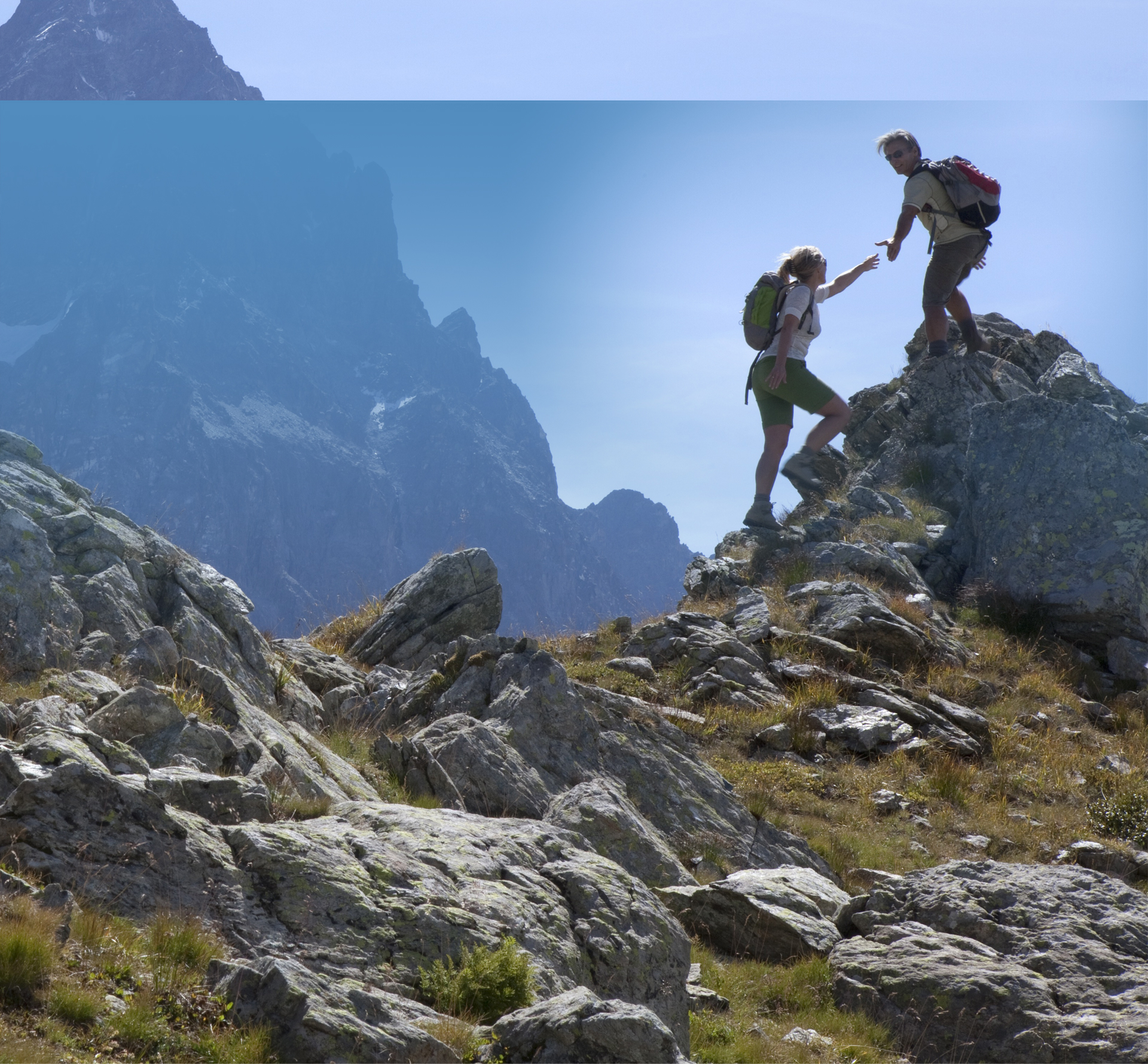
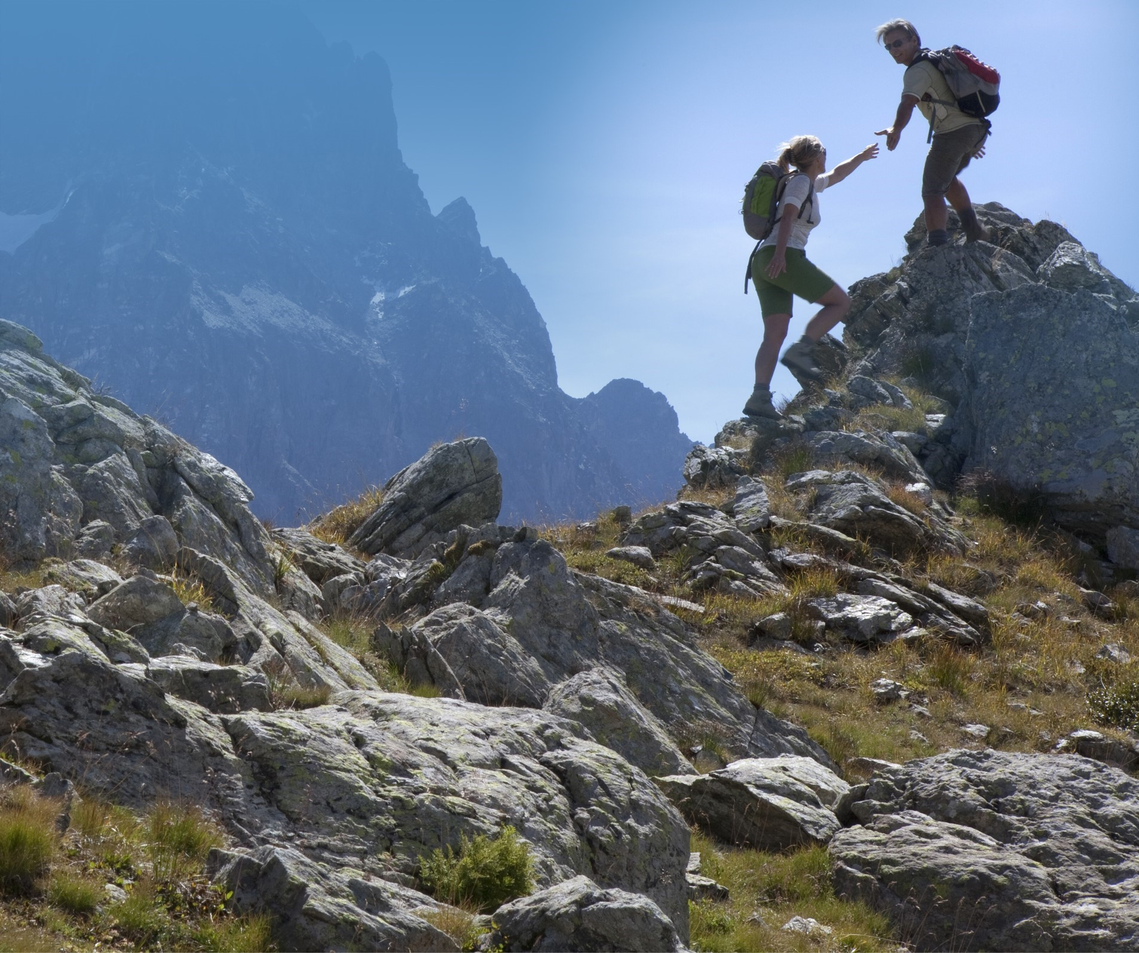
edit landing

diff --git a/css/style.css b/css/style.css
@@ -1,1 +1,1 @@
-html,body{padding:0;margin:0;box-sizing:border-box;scroll-behavior:smooth;font-family:'Poppins' , sans-serif;background:#ebebeb}ul{list-style:none;margin:0;padding:0}img{width:100%}li{margin:0;padding:0}a{text-decoration:none}a:hover{text-decoration:none}.margin{width:80%;margin:0 auto}.hamburger{position:fixed;z-index:999;flex-direction:column;justify-content:center;align-items:center;width:90px;height:90px;cursor:pointer;transition:all .5s ease-in-out;top:2em;right:0em}.hamburger:focus,.hamburger:active{outline:none !important;-webkit-tap-highlight-color:transparent;-webkit-touch-callout:none;-webkit-user-select:none;-khtml-user-select:none;-moz-user-select:none;-ms-user-select:none}.hamburger .lines{width:30px;height:3px;background:#009bfa;transition:all .5s ease-in-out;border-radius:5px}.hamburger .lines:nth-child(2){margin:.3em 0}.hamburger .lines:nth-child(2).open{transform:translateX(-50px);background:transparent}.hamburger.open .lines:nth-child(2){background:transparent}.hamburger.open .lines:nth-child(1){transform:rotate(45deg) translate(0px, 11px);background:red}.hamburger.open .lines:nth-child(3){transform:rotate(-45deg) translate(0px, -11px);background:red}.show-menu{transform:translateY(0%) !important;transition:all 1s ease-in-out;opacity:1 !important}nav{position:relative;width:100%}.container-nav{position:relative;top:0;left:0;text-align:center;width:100%;padding:.5em 0;background:#ebebeb}.container-nav .margin{display:flex;flex-direction:column;width:100%;position:relative}.container-nav .margin .logo{display:flex;flex-direction:row;justify-content:center}.container-nav .margin .logo img{width:20%}.container-nav .margin .name{position:absolute;left:20%;top:30%;transform:translate(-30%, -20%)}.container-nav .margin .nav-items{position:absolute;top:105%;left:0%;width:100%;background-color:white;transform:translateY(-200%);transition:all 1s ease-in-out;opacity:0}.container-nav .margin .nav-items li{padding:1em;background:#ebebeb;margin:2em 2em}.container-nav .margin .nav-items li a{color:black}@media (min-width: 992px){.container-nav{position:relative !important;text-align:left;background:white;border-bottom:10px solid #001254;padding:1em 0}.container-nav .hamburger{opacity:0}.container-nav .margin{flex-direction:row;width:80%;justify-content:space-between;align-items:center}.container-nav .margin .logo{flex-direction:column;width:10%}.container-nav .margin .logo img{width:80%}.container-nav .margin .name{width:25%;position:relative;top:0;left:0;transform:translate(0, 0);border-right:3px solid #cccccc;font-size:1rem;font-weight:700;color:#009bfa;padding:.3em}.container-nav .margin .name span{font-size:2.8rem;color:#193989}.container-nav .margin .nav-items{position:relative;width:65%;background:none;display:flex;justify-content:space-between;padding:0;transform:translateY(0%);opacity:1}.container-nav .margin .nav-items li{background:none;padding-left:1em;margin:0}}
+html,body{padding:0;margin:0;box-sizing:border-box;scroll-behavior:smooth;font-family:'Poppins' , sans-serif;background:#ebebeb}ul{list-style:none;margin:0;padding:0}img{width:100%}li{margin:0;padding:0}a{text-decoration:none}a:hover{text-decoration:none}.margin{width:80%;margin:0 auto}.hamburger{position:fixed;z-index:999;flex-direction:column;justify-content:center;align-items:center;width:90px;height:90px;cursor:pointer;transition:all .5s ease-in-out;top:2em;right:0em}.hamburger:focus,.hamburger:active{outline:none !important;-webkit-tap-highlight-color:transparent;-webkit-touch-callout:none;-webkit-user-select:none;-khtml-user-select:none;-moz-user-select:none;-ms-user-select:none}.hamburger .lines{width:30px;height:3px;background:#009bfa;transition:all .5s ease-in-out;border-radius:5px}.hamburger .lines:nth-child(2){margin:.3em 0}.hamburger .lines:nth-child(2).open{transform:translateX(-50px);background:transparent}.hamburger.open .lines:nth-child(2){background:transparent}.hamburger.open .lines:nth-child(1){transform:rotate(45deg) translate(0px, 11px);background:red}.hamburger.open .lines:nth-child(3){transform:rotate(-45deg) translate(0px, -11px);background:red}.show-menu{transform:translateY(0%) !important;transition:all 1s ease-in-out;opacity:1 !important}nav{position:relative;width:100%;z-index:999}.container-nav{position:relative;top:0;left:0;text-align:center;width:100%;padding:.5em 0;background:#ebebeb}.container-nav .margin{display:flex;flex-direction:column;width:100%;position:relative}.container-nav .margin .logo{display:flex;flex-direction:row;justify-content:center}.container-nav .margin .logo img{width:20%}.container-nav .margin .name{opacity:0;position:absolute;left:20%;top:120%;transform:translate(-30%, -20%)}.container-nav .margin .nav-items{position:absolute;top:105%;left:0%;width:100%;background-color:white;transform:translateY(-200%);transition:all 1s ease-in-out;opacity:0}.container-nav .margin .nav-items li{padding:1em;background:#ebebeb;margin:2em 2em}.container-nav .margin .nav-items li a{color:black}.container-landing{border-top:1px solid #001254;background:url("../images/banner.jpg");width:100%;height:80vh;background-position:right;background-size:cover;background-repeat:no-repeat;color:whitesmoke;position:relative}.container-landing .margin{display:flex;flex-direction:column;justify-content:center;height:100%}.container-landing .margin .dots{width:50%;height:3px;background:whitesmoke}.container-landing .margin h3,.container-landing .margin h2,.container-landing .margin h1{margin:0;padding:0;text-shadow:2px 2px 4px black}.container-landing .margin h1,.container-landing .margin h2{font-weight:700}.container-landing .margin h1{font-size:3rem}.container-landing .margin h2{font-size:2.5rem}.container-landing .margin h3{font-weight:300}@media (min-width: 992px){.container-nav{position:relative !important;text-align:left;background:white;border-bottom:10px solid #001254;padding:1em 0}.container-nav .hamburger{opacity:0}.container-nav .margin{flex-direction:row;width:80%;justify-content:space-between;align-items:center}.container-nav .margin .logo{flex-direction:column;width:10%}.container-nav .margin .logo img{width:80%}.container-nav .margin .name{width:25%;position:relative;top:0;left:0;transform:translate(0, 0);border-right:3px solid #cccccc;font-size:1rem;font-weight:700;color:#009bfa;padding:.3em;opacity:1}.container-nav .margin .name span{font-size:2.8rem;color:#193989}.container-nav .margin .nav-items{position:relative;width:65%;background:none;display:flex;justify-content:space-between;padding:0;transform:translateY(0%);opacity:1}.container-nav .margin .nav-items li{background:none;padding-left:1em;margin:0}.container-landing{background-position:top}.container-landing .margin h3,.container-landing .margin h2,.container-landing .margin h1{text-shadow:1px 1px 2px black}}

diff --git a/scss/style.scss b/scss/style.scss
@@ -7,6 +7,9 @@
 nav {
     position: relative;
     width: 100%;
+    z-index: 999;
+    
+    
 }
 .container-nav {
     position: relative;
@@ -14,6 +17,8 @@ nav {
     left: 0;
     text-align: center;
     width: 100%;
+    
+    
     padding: .5em 0;
     background: $bg-body;
 
@@ -33,13 +38,12 @@ nav {
                 }
             }
             .name {
+                opacity: 0;
                 position: absolute;
                 left: 20%;
-                top: 30%;
+                top: 120%;
                 transform: translate(-30%, -20%);
             }
-
-            
 
             .nav-items {
                 position: absolute;  
@@ -51,8 +55,7 @@ nav {
                 transition: all 1s ease-in-out;
                 opacity: 0;
                    
-                li {
-                    
+                li { 
                     padding: 1em;
                     background: $bg-body;
                     margin: 2em 2em;
@@ -64,6 +67,54 @@ nav {
                 }
             }
         }
+}
+
+// Landing
+.container-landing {
+    border-top: 1px solid $dark2;
+    background: url('../images/banner.jpg');
+    width: 100%;
+    height: 80vh;
+    background-position: right;
+    background-size: cover;
+    background-repeat: no-repeat;
+    color: whitesmoke;
+    position: relative;
+    
+    .margin {
+        display: flex;
+        flex-direction: column;
+        justify-content: center;
+        height: 100%;
+
+        .dots {
+            width: 50%;
+            height: 3px;
+            background: whitesmoke;
+        }
+
+        h3, h2, h1 {
+            margin: 0;
+            padding: 0;
+            text-shadow: 2px 2px 4px black;
+        }
+
+        h1, h2 {
+            font-weight: 700;
+        }
+
+        h1 {
+            font-size: 3rem;   
+        }
+
+        h2 {
+            font-size: 2.5rem;
+        }
+
+        h3 {        
+            font-weight: 300;
+        }
+    }
 }
 
 

diff --git a/scss/_media.scss b/scss/_media.scss
@@ -42,6 +42,7 @@
                 font-weight: 700;
                 color: $light;
                 padding: .3em;
+                opacity: 1;
                 
 
                 span {
@@ -67,6 +68,21 @@
                     
                 }
             }
+        }
+    } 
+    // End of Navigation
+
+    // Landing 
+    .container-landing {
+        background-position: top;
+
+        .margin {
+
+            h3, h2, h1 {
+                
+                text-shadow: 1px 1px 2px black;
+            }
+            
         }
     }
  }

diff --git a/index.html b/index.html
@@ -41,7 +41,7 @@
         <div class="container-landing">
             <div class="margin">
                 <h2>ACME Wealth</h2>
-                <h1>Management <br/> Platforms</h1>
+                <h1>Management Platforms</h1>
                 <div class="dots"></div>
                 <h3>Investment excellence</h3>
                 <h3>Diversity of thought</h3>
